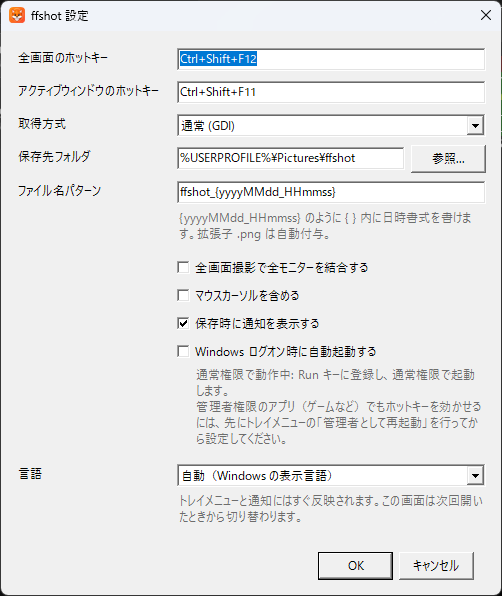
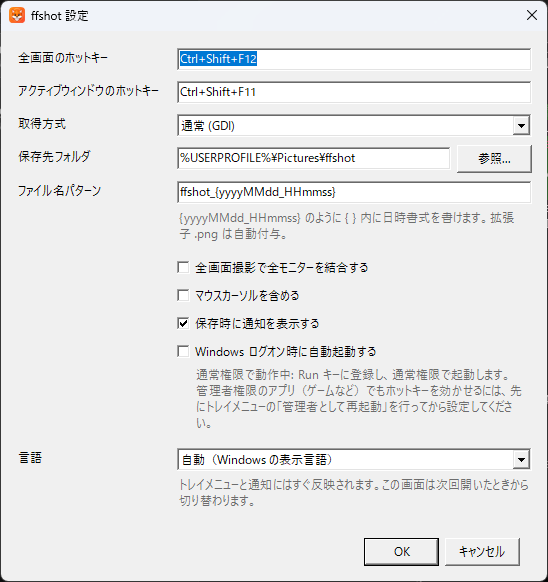
Fix settings dialog layout at display scaling above 100%
AutoScaleMode.Dpi had no AutoScaleDimensions, so WinForms treated the
scale factor as 1: text grew with DPI while the window, margins and the
hint wrap widths stayed at 96-DPI sizes, squeezing the input column and
stretching the dialog vertically. Now:
- AutoScaleDimensions = 96x96 so the whole dialog scales with DPI
- Width/height fitted to content in OnLoad/OnDpiChanged (after scaling),
  hints wrap to the cell width, scrolling only if the screen is too short
- Docs screenshot harness can emulate 200% (FFSHOT_DOCS_SCALE) and the
  text-only-scaled failure mode (FFSHOT_DOCS_FONTSCALE) for verification

diff --git a/src/FFShot/UI/SettingsForm.cs b/src/FFShot/UI/SettingsForm.cs
@@ -12,6 +12,8 @@ internal sealed class SettingsForm : Form
     private readonly TextBox _folder = new();
     private readonly TextBox _pattern = new();
     private readonly ComboBox _language = new() { DropDownStyle = ComboBoxStyle.DropDownList };
+    private readonly TableLayoutPanel _grid;
+    private readonly FlowLayoutPanel _buttons;
     private readonly CheckBox _allMonitors = new() { Text = Strings.Settings_AllMonitors, AutoSize = true };
     private readonly CheckBox _cursor = new() { Text = Strings.Settings_IncludeCursor, AutoSize = true };
     private readonly CheckBox _notify = new() { Text = Strings.Settings_ShowNotification, AutoSize = true };
@@ -32,6 +34,9 @@ internal sealed class SettingsForm : Form
         MaximizeBox = false;
         MinimizeBox = false;
         ShowInTaskbar = false;
+        // 96 DPI を基準にすると WinForms が表示スケール（125%〜）に合わせて枠・余白・サイズを拡大する。
+        // AutoScaleDimensions を指定しないと拡大率 1 とみなされ、文字だけ大きくなって崩れる。
+        AutoScaleDimensions = new SizeF(96F, 96F);
         AutoScaleMode = AutoScaleMode.Dpi;
         ClientSize = new Size(500, 540);
         Font = new Font("Yu Gothic UI", 9f);
@@ -39,12 +44,13 @@ internal sealed class SettingsForm : Form
         _backend.Items.AddRange([Strings.Settings_Backend_Gdi, Strings.Settings_Backend_Direct3D]);
         _language.Items.AddRange([Strings.Settings_Language_Auto, Strings.Settings_Language_Japanese, Strings.Settings_Language_English]);
 
-        var grid = new TableLayoutPanel
+        var grid = _grid = new TableLayoutPanel
         {
             Dock = DockStyle.Fill,
             ColumnCount = 3,
             Padding = new Padding(12),
             AutoSize = true,
+            AutoScroll = true, // 画面が低くて収まらない場合のみスクロール
         };
         grid.ColumnStyles.Add(new ColumnStyle(SizeType.AutoSize));
         grid.ColumnStyles.Add(new ColumnStyle(SizeType.Percent, 100));
@@ -63,7 +69,7 @@ internal sealed class SettingsForm : Form
         {
             Text = Strings.Settings_FileNameHint,
             AutoSize = true,
-            MaximumSize = new Size(450, 0),
+            Dock = DockStyle.Fill, // セル幅で折り返す
             ForeColor = SystemColors.GrayText,
             Margin = new Padding(3, 0, 3, 8),
         };
@@ -82,7 +88,7 @@ internal sealed class SettingsForm : Form
         {
             Text = App.Elevation.IsElevated ? Strings.Settings_StartupHintElevated : Strings.Settings_StartupHintNormal,
             AutoSize = true,
-            MaximumSize = new Size(450, 0),
+            Dock = DockStyle.Fill,
             ForeColor = SystemColors.GrayText,
             Margin = new Padding(20, 0, 3, 8),
         };
@@ -95,7 +101,7 @@ internal sealed class SettingsForm : Form
         {
             Text = Strings.Settings_LanguageHint,
             AutoSize = true,
-            MaximumSize = new Size(450, 0),
+            Dock = DockStyle.Fill,
             ForeColor = SystemColors.GrayText,
             Margin = new Padding(3, 0, 3, 8),
         };
@@ -106,7 +112,7 @@ internal sealed class SettingsForm : Form
         var ok = new Button { Text = Strings.Settings_OK, DialogResult = DialogResult.OK, AutoSize = true };
         var cancel = new Button { Text = Strings.Settings_Cancel, DialogResult = DialogResult.Cancel, AutoSize = true };
         ok.Click += (_, _) => Apply();
-        var buttons = new FlowLayoutPanel
+        var buttons = _buttons = new FlowLayoutPanel
         {
             FlowDirection = FlowDirection.RightToLeft,
             Dock = DockStyle.Bottom,
@@ -122,11 +128,63 @@ internal sealed class SettingsForm : Form
         CancelButton = cancel;
 
         LoadFrom(current);
+    }
 
-        // 言語によって文言の行数が変わるので、高さは内容に合わせて決める
+    protected override void OnLoad(EventArgs e)
+    {
+        base.OnLoad(e);
+        FitToContent();
+    }
+
+    protected override void OnDpiChanged(DpiChangedEventArgs e)
+    {
+        base.OnDpiChanged(e);
+        FitToContent();
+    }
+
+    /// <summary>
+    /// DPI 拡大の適用後に、内容に合わせて幅と高さを決める。
+    /// 幅: ラベル列が広くても入力列が最低限の幅を保つように広げる。
+    /// 高さ: 言語や折り返しで変わる行数に合わせる。画面に収まらなければスクロールにする。
+    /// </summary>
+    private void FitToContent()
+    {
+        // 測定中にスクロールバーが出て幅を奪わないよう、いったん無効にする
+        _grid.AutoScroll = false;
         PerformLayout();
-        var gridHeight = grid.GetPreferredSize(new Size(ClientSize.Width, 0)).Height;
-        ClientSize = new Size(ClientSize.Width, gridHeight + buttons.Height);
+
+        var widths = _grid.GetColumnWidths();
+        if (widths.Length == 3)
+        {
+            // 入力列は最低 280 論理px、かつチェックボックスの文言が切れない幅を確保する
+            var minInputWidth = LogicalToDeviceUnits(280);
+            foreach (var cb in new[] { _allMonitors, _cursor, _notify, _startup })
+            {
+                minInputWidth = Math.Max(minInputWidth, cb.PreferredSize.Width + cb.Margin.Horizontal);
+            }
+            var inputWidth = ClientSize.Width - widths[0] - widths[2] - _grid.Padding.Horizontal;
+            if (inputWidth < minInputWidth)
+            {
+                ClientSize = new Size(ClientSize.Width + (minInputWidth - inputWidth), ClientSize.Height);
+            }
+        }
+
+        // 折り返しは幅が決まってから確定するので、高さは 2 回測る
+        var wanted = MeasureWantedHeight();
+        ClientSize = new Size(ClientSize.Width, wanted);
+        wanted = MeasureWantedHeight();
+
+        var chrome = Height - ClientSize.Height;
+        var maxClientHeight = Screen.FromControl(this).WorkingArea.Height - chrome - LogicalToDeviceUnits(40);
+        var fits = wanted <= maxClientHeight;
+        _grid.AutoScroll = !fits;
+        ClientSize = new Size(ClientSize.Width, Math.Max(LogicalToDeviceUnits(300), fits ? wanted : maxClientHeight));
+    }
+
+    private int MeasureWantedHeight()
+    {
+        PerformLayout();
+        return _grid.GetPreferredSize(new Size(ClientSize.Width, 0)).Height + _buttons.Height + LogicalToDeviceUnits(2);
     }
 
     private static void AddRow(TableLayoutPanel grid, int row, string label, Control input, Control? extra = null)

diff --git a/tests/FFShot.Tests/DocsScreenshots.cs b/tests/FFShot.Tests/DocsScreenshots.cs
@@ -74,6 +74,22 @@ public class DocsScreenshots
             using var form = new SettingsForm(new AppSettings());
             form.StartPosition = FormStartPosition.Manual;
             form.Location = new Point(200, 200);
+
+            // FFSHOT_DOCS_SCALE=2 で 200% 表示スケール相当（文字と枠を 2 倍）を疑似再現する。
+            // FFSHOT_DOCS_FONTSCALE=2 は文字だけ 2 倍（枠が DPI に追従しない不具合の再現用）。
+            var scaleText = Environment.GetEnvironmentVariable("FFSHOT_DOCS_SCALE");
+            var fontScaleText = Environment.GetEnvironmentVariable("FFSHOT_DOCS_FONTSCALE");
+            if (float.TryParse(scaleText, System.Globalization.NumberStyles.Float, System.Globalization.CultureInfo.InvariantCulture, out var scale) && scale > 0 && scale != 1f)
+            {
+                form.Font = new Font(form.Font.FontFamily, form.Font.Size * scale);
+                form.Scale(new SizeF(scale, scale));
+            }
+            else if (float.TryParse(fontScaleText, System.Globalization.NumberStyles.Float, System.Globalization.CultureInfo.InvariantCulture, out var fontScale) && fontScale > 0 && fontScale != 1f)
+            {
+                form.Font = new Font(form.Font.FontFamily, form.Font.Size * fontScale);
+                scaleText = "font" + fontScaleText;
+            }
+
             form.Show();
             form.Activate();
             Pump(800);
@@ -83,7 +99,9 @@ public class DocsScreenshots
             using var backend = new GdiCaptureBackend();
             using var bmp = backend.Capture(bounds);
             var lang = Environment.GetEnvironmentVariable("FFSHOT_DOCS_LANG");
-            var path = Path.Combine(DocsDir(), string.IsNullOrEmpty(lang) ? "settings.png" : $"settings_{lang}.png");
+            var path = string.IsNullOrEmpty(scaleText)
+                ? Path.Combine(DocsDir(), string.IsNullOrEmpty(lang) ? "settings.png" : $"settings_{lang}.png")
+                : Path.Combine(Path.GetTempPath(), $"ffshot-settings-{lang ?? "ja"}-x{scaleText}.png");
             bmp.Save(path, System.Drawing.Imaging.ImageFormat.Png);
             form.Close();
         });

diff --git a/README_EN.md b/README_EN.md
@@ -98,7 +98,7 @@ When started, a fox icon appears in the tray. Left-click or right-click opens th
 
 The settings dialog lets you change the following.
 
-<img src="docs/settings_en.png" width="502" alt="Settings dialog">
+<img src="docs/settings_en.png" width="527" alt="Settings dialog">
 
 | Setting | Default |
 |---|---|

diff --git a/README.md b/README.md
@@ -98,7 +98,7 @@ git push origin main v0.2.0
 
 設定画面では以下を変更できます。
 
-<img src="docs/settings.png" width="482" alt="設定ダイアログ">
+<img src="docs/settings.png" width="548" alt="設定ダイアログ">
 
 | 項目 | 既定値 |
 |---|---|
